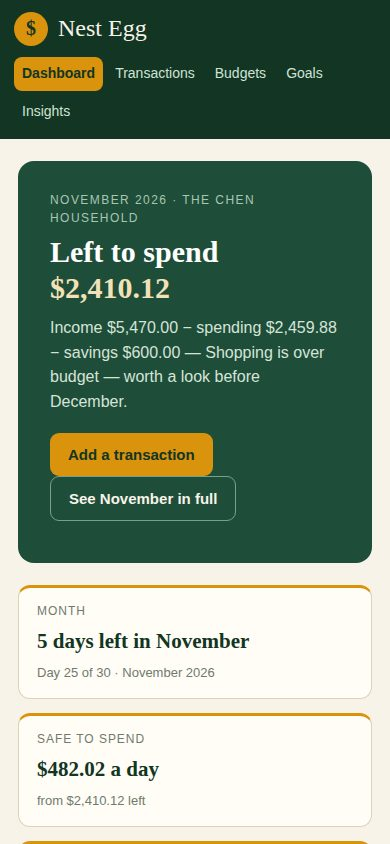
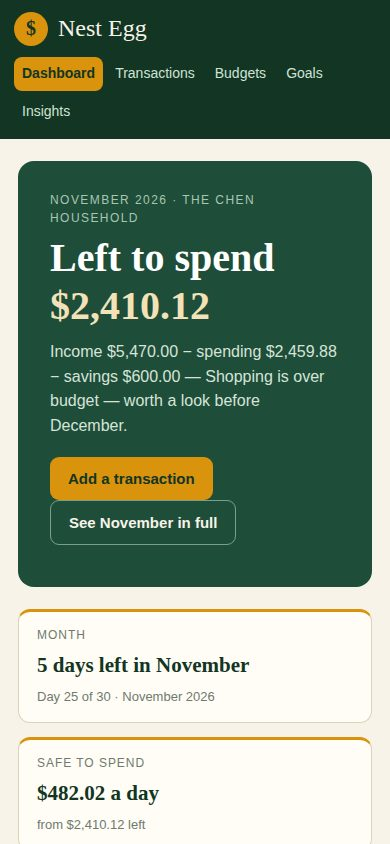
Nest Egg polish round 7 — income breakdown, month-blind date fix, print styles
- Insights: 'Where the money came from' — ranked income by source
  (Salary $4,200.00, 76.8% of income), mirroring Biggest spending;
  the November report lists the same five sources.
- Bug fix: demoToday and weeklySpending parsed only the day from a
  date, ignoring the month — a Dec 28 transaction pushed 'today' to
  the 28th (5 days left became 2) and landed in Nov week 1. Both now
  only count dates inside the seed month, like dailySpending already did.
- Print stylesheet: nav, buttons and forms drop out, dark hero and
  Remaining card print as plain bordered boxes, panels never split
  across a page break.
- Screenshots re-taken (1280x720 JPEG q82, all <=256 KiB); main.ts
  verified under grader conditions (3 runs, exit 0, byte-identical).

Changed region(s): [[0.0308, 0.2773, 0.9538, 1.0]]

diff --git a/app/money.js b/app/money.js
@@ -114,17 +114,22 @@ function daysInMonth(year, month) {
   return new Date(year, month, 0).getDate();
 }
 
-/* The demo "today": the newest transaction date, clamped inside the
-   seed month so the figures always describe November 2026 — even after
-   the household adds a transaction dated in December, the pace strip
-   keeps answering for the month the ledger is about. */
+/* The demo "today": the newest transaction date inside the seed
+   month, clamped inside it so the figures always describe November
+   2026 — even after the household adds a transaction dated in
+   December, the pace strip keeps answering for the month the ledger
+   is about. Dates outside the month are ignored here: a December
+   dinner on the 28th used to push "today" to the 28th and shrink the
+   days left from five to two. */
 function demoToday(state) {
   const parts = NEST_SEED.month.split("-").map(Number);
   const year = parts[0];
   const month = parts[1];
   const last = daysInMonth(year, month);
+  const prefix = NEST_SEED.month + "-";
   let latest = 1;
   for (const tx of state.transactions) {
+    if (!String(tx.date || "").startsWith(prefix)) continue;
     const day = parseInt((tx.date || "").slice(8, 10), 10);
     if (Number.isFinite(day)) latest = Math.max(latest, day);
   }
@@ -180,7 +185,9 @@ function monthPace(state) {
   };
 }
 
-/* Spending grouped by week of the month: Nov 1–7, 8–14, 15–21, 22–30. */
+/* Spending grouped by week of the month: Nov 1–7, 8–14, 15–21, 22–30.
+   Only the seed month counts — a transaction dated in December used
+   to land in a November week by its day number alone. */
 function weeklySpending(list) {
   const weeks = [
     { label: "Nov 1–7", from: 1, to: 7, cents: 0 },
@@ -188,13 +195,29 @@ function weeklySpending(list) {
     { label: "Nov 15–21", from: 15, to: 21, cents: 0 },
     { label: "Nov 22–30", from: 22, to: 30, cents: 0 },
   ];
+  const prefix = NEST_SEED.month + "-";
   for (const tx of list) {
     if (tx.kind !== "spending") continue;
+    if (!String(tx.date || "").startsWith(prefix)) continue;
     const day = parseInt((tx.date || "").slice(8, 10), 10);
     const week = weeks.find((w) => day >= w.from && day <= w.to);
     if (week) week.cents += tx.cents;
   }
   return weeks;
+}
+
+/* Income grouped by source, biggest first — the mirror of
+   spendByCategory: the household's money comes from five places, and
+   until now only the total ever showed. */
+function incomeByCategory(list) {
+  const byCat = new Map();
+  for (const tx of list) {
+    if (tx.kind !== "income") continue;
+    byCat.set(tx.category, (byCat.get(tx.category) || 0) + tx.cents);
+  }
+  return [...byCat.entries()]
+    .map(([category, cents]) => ({ category, cents }))
+    .sort((a, b) => b.cents - a.cents);
 }
 
 /* Spending on each day of the seed month, day 1 to the last day —
@@ -695,6 +718,11 @@ function monthReport(state) {
   lines.push(`Savings  ${money(totals.saving)}`);
   lines.push(`Left     ${money(totals.remaining)}`);
   lines.push(`Savings rate ${sr.rate.toFixed(1)}% of income (target ${sr.targetRate}%)`);
+  lines.push("");
+  lines.push("Income sources");
+  for (const r of incomeByCategory(state.transactions)) {
+    lines.push(`  ${r.category}: ${money(r.cents)} (${pctOf(r.cents, totals.income)} of income)`);
+  }
   lines.push("");
   lines.push("Budgets");
   for (const cat of NEST_SEED.spendCategories) {

diff --git a/app/pages.js b/app/pages.js
@@ -353,6 +353,13 @@ function pageInsights(state) {
     ? `The biggest day was Nov ${biggestDay.day} at ${money(biggestDay.cents)}${biggestDay.day === 1 ? " — rent day, so it always leads" : ""}. ${quietDays} of the 30 days had no spending at all.`
     : "No spending yet this month — every day is still at zero.";
   const sr = savingsRate(state);
+  const inc = incomeByCategory(state.transactions);
+  const topInc = inc[0] || { category: "—", cents: 0 };
+  const incNote = totals.income <= 0
+    ? "No income yet this month — add a salary, a refund or a gift and it shows up here."
+    : inc.length === 1
+      ? `${esc(topInc.category)} is the only income this month — ${money(topInc.cents)} in, and everything depends on it.`
+      : `${esc(topInc.category)} carries the month at ${money(topInc.cents)} (${pctOf(topInc.cents, totals.income)} of all income). The other ${inc.length - 1} sources together add ${money(totals.income - topInc.cents)}.`;
   const gaugeNote = totals.income <= 0
     ? "No income this month, so there is no savings rate to show yet."
     : sr.rate >= sr.targetRate
@@ -390,6 +397,13 @@ function pageInsights(state) {
       ${savingsGauge(sr.rate, sr.targetRate)}
       <p class="gauge-note">${gaugeNote}</p>
     </div>
+  </section>
+  <section class="panel">
+    <h2>Where the money came from</h2>
+    ${inc.length ? `<ol class="rank">
+      ${inc.map((r, i) => `<li><span class="rank-pos">${i + 1}</span><span class="rank-cat">${esc(r.category)}</span><span class="rank-bar">${progressBar(100 * r.cents / topInc.cents, "")}</span><b>${money(r.cents)}</b></li>`).join("")}
+    </ol>` : ""}
+    <p class="muted">${incNote}</p>
   </section>
   <div class="two-col">
     <section class="panel">

diff --git a/app/style.css b/app/style.css
@@ -342,7 +342,6 @@ input, select {
 .tx-day-total { font-size: 13px; color: var(--pine-dark); }
 
 @media (max-width: 720px) {
-  .hero h1 { font-size: 30px; }
   .cards { grid-template-columns: 1fr 1fr; }
   .pace { grid-template-columns: 1fr; }
   .two-col { grid-template-columns: 1fr; }
@@ -353,4 +352,24 @@ input, select {
   .nav-link { padding: 6px 8px; font-size: 14px; }
   .activity li, .tx-list li { flex-wrap: wrap; }
   .tx-date { min-width: 0; }
+}
+
+/* Print: the month on paper. Navigation, buttons and forms are
+   controls, not content, so they go; the dark hero and the dark
+   Remaining card print as plain bordered boxes instead of solid ink;
+   panels never split across a page break. */
+@media print {
+  body { background: #fff; }
+  .topbar, .btn, .tx-del, .tx-edit-btn, form, .filters, .move-box,
+  .fund-row, .donut-hint, .limit-edit, #report-download, #reset-demo,
+  .import-label, #tx-import { display: none !important; }
+  .hero { background: #fff; color: var(--ink); border: 1px solid var(--line); }
+  .hero h1, .hero h1 span { color: var(--pine-dark); }
+  .hero-sub { color: var(--muted); }
+  .stat.highlight { background: #fff; border-color: var(--line); }
+  .stat.highlight strong, .stat.highlight .stat-label { color: var(--pine-dark); }
+  .stat.highlight .muted { color: var(--muted); }
+  .panel, .stat, .pace > div, .moves, .goal-card, .budget-row { break-inside: avoid; }
+  .wrap { max-width: none; }
+  a { text-decoration: none; }
 }

diff --git a/README.md b/README.md
@@ -4,7 +4,7 @@
 [![rank](https://make.fun/badge/best-household-budget-site-20261126-1457/mytlyy0745/best-household-budget-site-20261126/rank.svg)](https://make.fun/bounty/best-household-budget-site-20261126-1457/leaderboard?utm_source=github&utm_medium=readme&utm_campaign=best-household-budget-site-20261126-1457)
 [![reward](https://make.fun/badge/best-household-budget-site-20261126-1457/mytlyy0745/best-household-budget-site-20261126/reward.svg)](https://make.fun/bounty/best-household-budget-site-20261126-1457?utm_source=github&utm_medium=readme&utm_campaign=best-household-budget-site-20261126-1457)
 
-Nest Egg is a household budget site for one family keeping its money straight. The dashboard shows what is left to spend in November 2026, with income, spending and savings at a glance, a donut of where the spending went — tap any slice or legend row and it opens Transactions filtered to that category — a month-pace strip (days left in the month, what is safe to spend each remaining day, and whether the flexible spending is ahead of or behind the plan — rent, which lands as one lump on the 1st, is left out of the pace so it never cries wolf), and a Next moves panel with the concrete steps the household's own numbers call for: covering an over-budget category from the budget with the most room, in one click, and the dollars needed to reach a 15% savings rate. Transactions can be added, edited inline, filtered and deleted, downloaded as a CSV of exactly the rows shown, and imported back from a CSV in the same shape; the list is grouped by day, newest first, with each day's own subtotal (income, spending and saving) so a day's money is visible without adding it up by hand. Nine monthly budgets show progress and can have their limits changed, each with a burn-rate line saying when its limit runs out at the current pace (or that a one-off payment is already made), and limits can be moved between budgets — the month's total never changes — with the form opening pre-filled with the best move; an all-budgets total sits at the top; three savings goals track progress and take top-ups, each with a projected finish date worked out from what the household actually saves into it each month, and a monthly plan saying what it would take each month to finish in 6 or 12 months, against the pace the household is actually on. Keyboard users get 1–5 to switch pages, / to jump to the transaction search, N to start a new transaction, and Esc to clear the search or close an open edit form, as well as a visible amber focus ring on every control, and status messages are announced to screen readers. Everything is static files — no build step, no network requests, no account — and changes are saved in the browser's local storage, with a one-click reset back to the demo month.
+Nest Egg is a household budget site for one family keeping its money straight. The dashboard shows what is left to spend in November 2026, with income, spending and savings at a glance, a donut of where the spending went — tap any slice or legend row and it opens Transactions filtered to that category — a month-pace strip (days left in the month, what is safe to spend each remaining day, and whether the flexible spending is ahead of or behind the plan — rent, which lands as one lump on the 1st, is left out of the pace so it never cries wolf), and a Next moves panel with the concrete steps the household's own numbers call for: covering an over-budget category from the budget with the most room, in one click, and the dollars needed to reach a 15% savings rate. Insights compares November with October, shows spending by week and by day, a savings-rate gauge against its 15% target, a ranked list of the biggest spending — and, since income used to show only as a total, a matching ranked list of where the money came from: salary carries the month at 76.8% of all income, with the other four sources beside it. The month also prints cleanly: navigation, buttons and forms drop out, and the dark hero prints as a plain bordered box instead of solid ink. Transactions can be added, edited inline, filtered and deleted, downloaded as a CSV of exactly the rows shown, and imported back from a CSV in the same shape; the list is grouped by day, newest first, with each day's own subtotal (income, spending and saving) so a day's money is visible without adding it up by hand. Nine monthly budgets show progress and can have their limits changed, each with a burn-rate line saying when its limit runs out at the current pace (or that a one-off payment is already made), and limits can be moved between budgets — the month's total never changes — with the form opening pre-filled with the best move; an all-budgets total sits at the top; three savings goals track progress and take top-ups, each with a projected finish date worked out from what the household actually saves into it each month, and a monthly plan saying what it would take each month to finish in 6 or 12 months, against the pace the household is actually on. Keyboard users get 1–5 to switch pages, / to jump to the transaction search, N to start a new transaction, and Esc to clear the search or close an open edit form, as well as a visible amber focus ring on every control, and status messages are announced to screen readers. Everything is static files — no build step, no network requests, no account — and changes are saved in the browser's local storage, with a one-click reset back to the demo month.
 
 ## Run it
 
